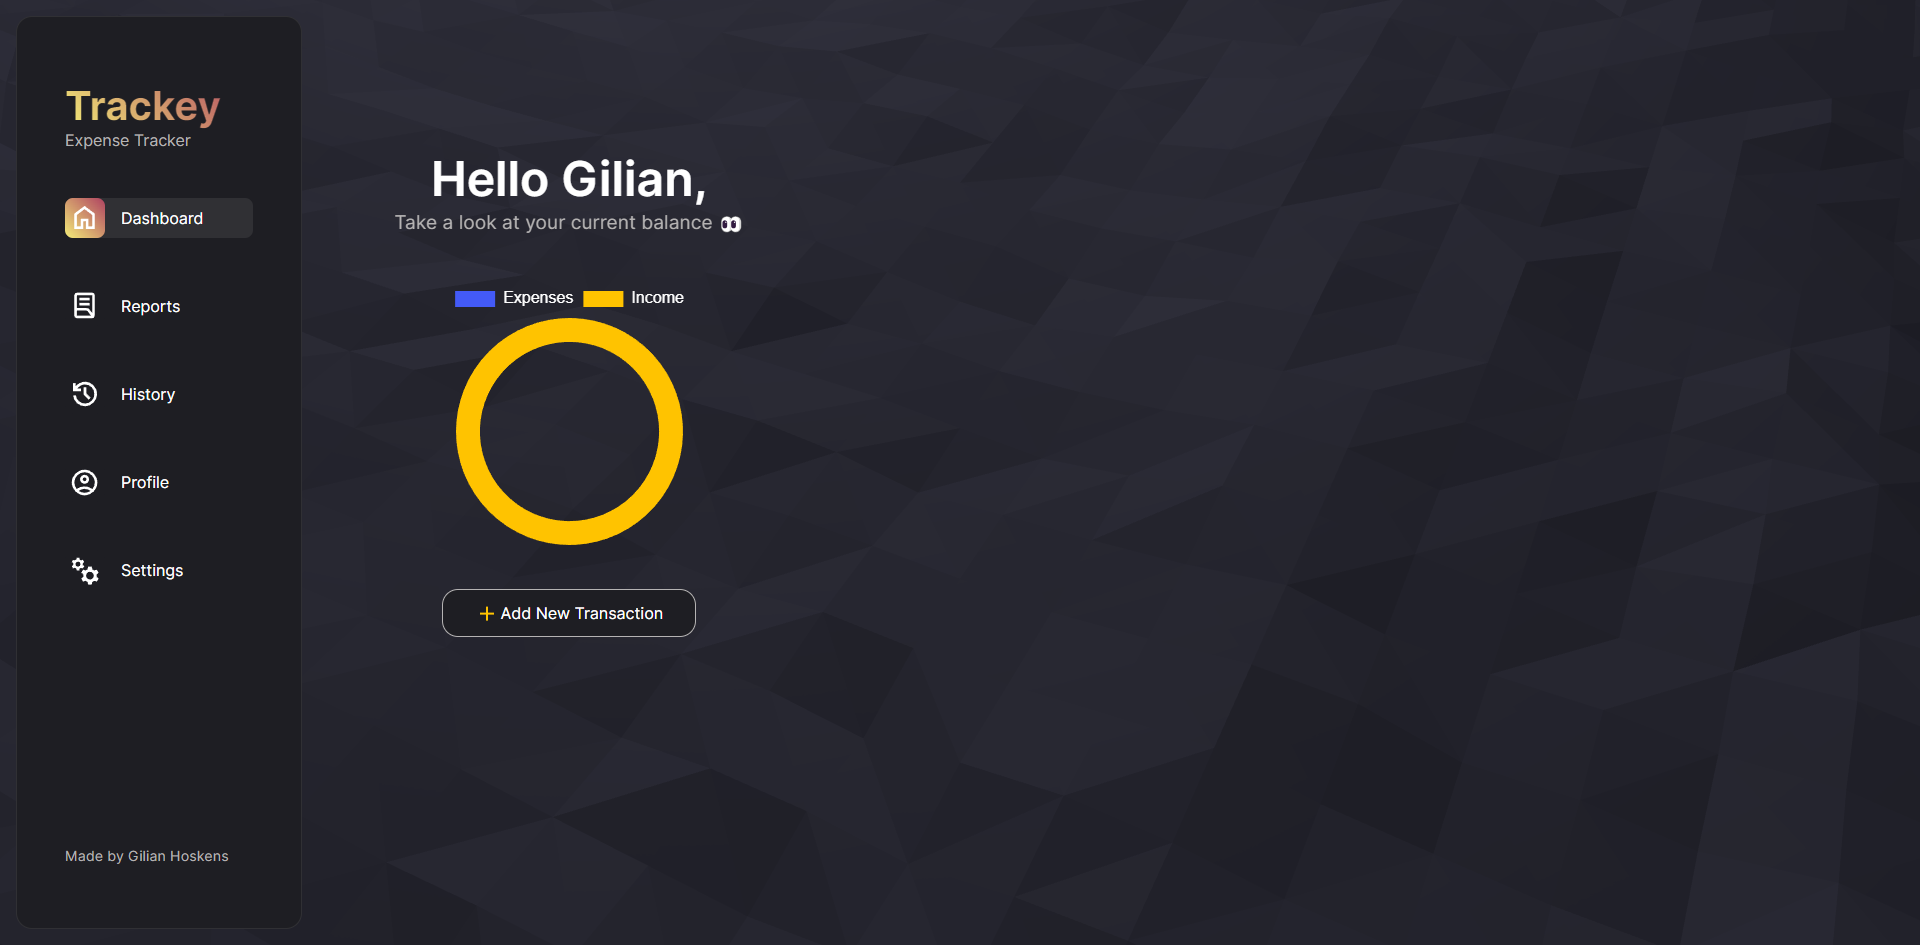
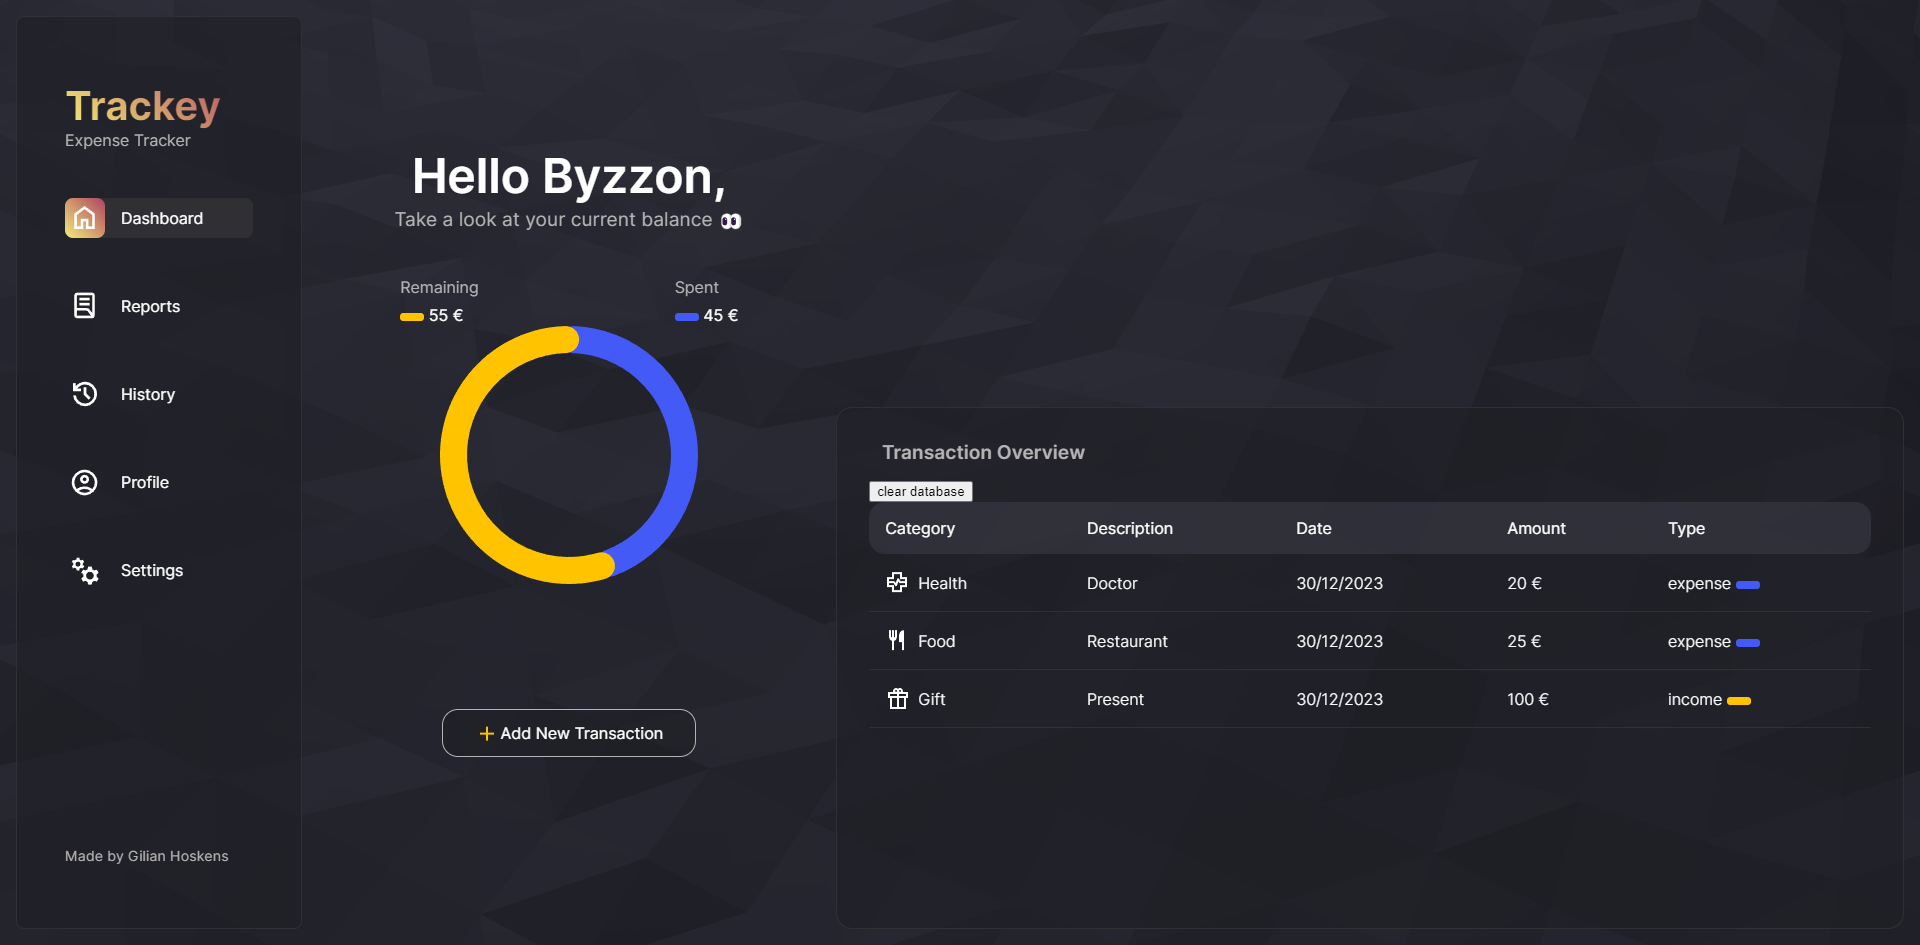
Update Trackey Version

diff --git a/trackey/components/add-transaction-modal.js b/trackey/components/add-transaction-modal.js
@@ -163,13 +163,17 @@ export const openModal = () => {
 };
 
 const setIncomeButtonActive = () => {
-  btnSelectExpense.classList.remove("bg-red");
   btnSelectIncome.classList.add("bg-green");
+  btnSelectIncome.classList.remove("hoverable");
+  btnSelectExpense.classList.remove("bg-red");
+  btnSelectExpense.classList.add("hoverable");
 };
 
 const setExpenseButtonActive = () => {
   btnSelectExpense.classList.add("bg-red");
+  btnSelectExpense.classList.remove("hoverable");
   btnSelectIncome.classList.remove("bg-green");
+  btnSelectIncome.classList.add("hoverable");
 };
 
 const getTransactionObject = () => {
@@ -209,17 +213,17 @@ const clearInputs = () => {
 const addCategories = () => {
   globalSettings.defaultCategories.forEach((category) => {
     categoryModal.innerHTML += `
-      <div class="category-item" data-category=${category.category} data-category-img=${category.img}>
+      <div name="category-item" class="category-item hoverable" data-category=${category.category} data-category-img=${category.img}>
       <img src=${category.img} alt="" />
       <p>${category.category}</p>
       </div>
       `;
   });
 
-  document.querySelectorAll(".category-item").forEach((element) => {
+  document.getElementsByName("category-item").forEach((element) => {
     element.addEventListener("click", (e) => {
-      const category = e.target.parentNode.dataset.category;
-      const imgUrl = e.target.parentNode.dataset.categoryImg;
+      const category = element.dataset.category;
+      const imgUrl = element.dataset.categoryImg;
       onCategorySelected(category, imgUrl);
     });
   });

diff --git a/trackey/components/add-transaction-modal.css b/trackey/components/add-transaction-modal.css
@@ -107,7 +107,12 @@
   align-items: center;
   border-radius: 1rem;
   width: 10rem;
-  transition: 0.4s;
+  transition: 0.2s;
+}
+
+.hoverable:hover {
+  background-color: var(--light-grey);
+  transition: 0.2s;
 }
 
 .clickable {
@@ -182,6 +187,7 @@ input[type="number"] {
 
 .category-input {
   margin: 0;
+  transition: 0.2s;
 }
 
 .modal-footer {
@@ -217,7 +223,7 @@ input[type="number"] {
   margin: 4px 2px;
   cursor: pointer;
   height: 3rem;
-  transition: 0.3s;
+  transition: 0.2s;
   margin-top: 5rem;
 }
 
@@ -234,10 +240,13 @@ input[type="number"] {
 }
 
 .category-item {
+  border-radius: 0.5rem;
   display: flex;
   flex-direction: column;
-  justify-self: center;
+  align-items: center;
   cursor: pointer;
+  padding: 1rem;
+  transition: 0.2s;
 }
 
 .category-item img {

diff --git a/trackey/index.html b/trackey/index.html
@@ -81,7 +81,7 @@
                 <input
                   id="category-input"
                   type="text"
-                  class="text-input category-input clickable rounded-border"
+                  class="text-input category-input clickable rounded-border hoverable"
                   placeholder="Select Category"
                   tabindex="-1"
                 />

diff --git a/trackey/scripts/my-graphs.js b/trackey/scripts/my-graphs.js
@@ -1,7 +1,7 @@
 const ctx = document.getElementById("my-graph");
 
 const data = {
-  labels: ["Expenses", "Income"],
+  labels: ["Spent", "Remaining"],
   datasets: [
     {
       label: "EUR",
